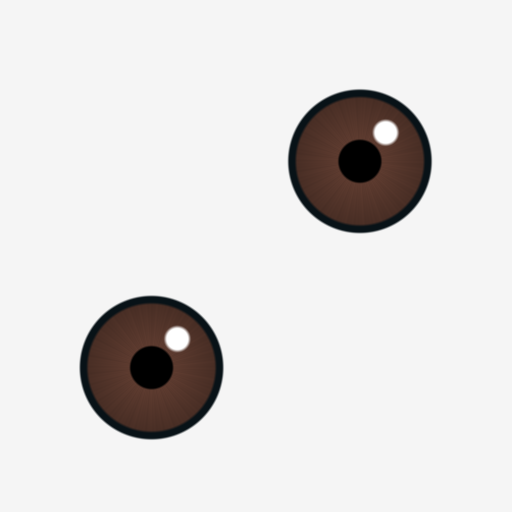
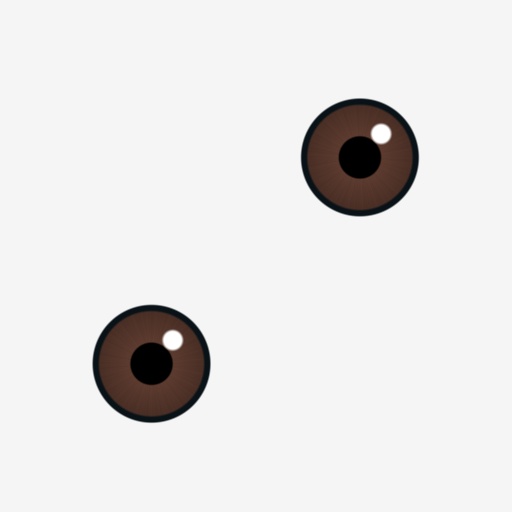
Round 83: the men's chin its own length, a soft-edged turn under the chin, colour and eyes by measure
The owner, 2026-11-17: "o maxilar do homem e da mulher ainda está com falhas". The steps of the
head were saved one by one and redrawn outside Blender (the same numbers to 0.0 mm). Two causes:

- The men's chin: a round U before the step that shortens the lower face and a block with a flat
  base and two corners after it. Measured on the portraits against the series (a finder and a
  sceptic), the young man's chin had 50 to 55 % of the height of the series'. The young man's lower
  face keeps its own length (LOWER_FACE 0.83 to 1.0), the old man's almost (0.87 to 0.95), the old
  woman's a little more of it (0.93 to 0.955).
- The wavy line along the base of every jaw: the normals turned forward under the chin
  (parle_normals) stood up to 90 degrees off the surface, a lit wedge with an edge that followed
  each point's own normal. The turn is weaker (0.85 to 0.6), comes in over a wider span of the
  normal and is averaged over 30 rounds of neighbours. Not proved in the player.

By the same measured panel (series against cast, each difference checked by a sceptic): the iris
smaller (0.14 to 0.115: the cast showed a quarter of the series' white) with the pupil the size it
had; a young person's eyebrow darker than the hair (0.6 to 0.4); the young man's eyebrow thinner at
its head, its tail kept; the old women's blush and the tip of the women's nose less red; the young
man's blush lower and further out; the women's nose a twelfth (old: a twentieth) narrower. Tested.

diff --git a/tools/parle_style.py b/tools/parle_style.py
@@ -22,7 +22,10 @@ STYLE = {
     # The eyes (2026-11-16, round 49): grown 1.25 on the men and 1.12 on the women for the series, the skin round them kept under a
     # third of its room (0.36 on the men, 0.22 on the women: the bags under the eyes the judges asked away, the women past the 1.3
     # the owner's test holds, `tests/test_parle_eyes.py`). The women's eyes back to 1.3 of the kit's, the men's to 1.25.
-    "male": {"forward": 1.25, "nose": 1.6, "tip": 1.5, "brow": 1.4, "eye": 1.25 / 1.1, "skin": 1.55},
+    # Round 83 (measured against the series on the portraits of round 81, a finder and a sceptic): the young man's eyebrow was 80 to 95 %
+    # thicker than the series' at its head (0.105 of the face's width against 0.055) and its tail as the series' (0.036): the head
+    # thinner, and `brow_outer` over one so the tail keeps the thickness it had (1.4 before, at every point).
+    "male": {"forward": 1.25, "nose": 1.6, "tip": 1.5, "brow": 0.85, "brow_outer": 1.6, "eye": 1.25 / 1.1, "skin": 1.55},
     # Round 41: the old man's eyebrow a flat white patch over the glasses (2.8) and his eye white all about the iris (`lid` in SCULPT lower).
     # Round 66 (owner, 2026-11-17: "melhora a sobrancelha"): at 2.5 his eyebrow stood 3 cm tall by the nose, a grey block over the
     # glasses, as thick at the temple as by the nose: thinner, and to `brow_outer` of that at its outer end (the series' old man's
@@ -37,10 +40,13 @@ STYLE = {
     # Round 63, both judges asked the young woman's eyebrows thicker; at 1.55 (round 64) both "30 a 40 % mais finas": back to 1.35.
     # Round 76 (both judges, seven of eight: the eyebrow "em vírgula, mais grossa na cabeça e afinando até a ponta"): a woman's
     # thins to 0.6 of its head at the temple (`parle_face.BROW_OUTER` 0.75 until then).
-    "female": {"forward": 0.8, "nose": 1.15, "tip": 1.1, "brow": 1.35, "brow_outer": 0.6, "eye": 1.0, "skin": 1.55},
+    # Round 83 (measured): the young women's nose 20 to 36 % wider than the series' young women's, the old women's 8 to 11 % wider
+    # than its widest woman's; the faces the owner approved have it wider than the series (`parle_beauty.LIKED`), so less than
+    # half of the way: a twelfth and a twentieth narrower (with the balls in SCULPT).
+    "female": {"forward": 0.8, "nose": 1.06, "tip": 1.1, "brow": 1.35, "brow_outer": 0.6, "eye": 1.0, "skin": 1.55},
     # Rounds 54 and 58: the old woman's nose "20 % menor, ... hoje parece nariz de homem" (both judges).
     # Round 66: at 2.4 the old woman's eyebrow was a flat grey slab over the eye: thinner, and thinning to the temple.
-    "female-old": {"forward": 0.85, "nose": 1.3, "tip": 1.2, "brow": 1.7, "brow_outer": 0.6, "eye": 1.0, "skin": 1.55},
+    "female-old": {"forward": 0.85, "nose": 1.24, "tip": 1.2, "brow": 1.7, "brow_outer": 0.6, "eye": 1.0, "skin": 1.55},
 }
 # Round 3 of the loop judged by sight against the series (2026-11-15, 3.1 in 10) asked first for eyes about a third bigger and round,
 # with white showing and a highlight; then warmer, more saturated skin; a bulb at the tip of the nose; eyebrows half as thick again.
@@ -164,8 +170,8 @@ def warmer(rgb, amount):
 SCULPT = {
     "male": {"nose_ball": (0.41, 0.42, 0.33), "nose_share": 0.95, "cheek": 0.66, "cheek_share": 0.76, "chin": 0.5, "lid": 0.1, "ridge": 0.0},
     "male-old": {"nose_ball": (0.44, 0.46, 0.38), "nose_share": 0.95, "cheek": 0.735, "cheek_share": 0.92, "chin": 0.45, "lid": -0.32, "ridge": 0.0},
-    "female": {"nose_ball": (0.22, 0.22, 0.19), "nose_share": 0.9, "cheek": 0.62, "cheek_wide": 0.86, "cheek_share": 0.82, "chin": 0.36, "lid": -0.02, "ridge": 0.0},
-    "female-old": {"nose_ball": (0.29, 0.29, 0.25), "nose_share": 0.9, "cheek": 0.7, "cheek_wide": 0.86, "cheek_share": 0.92, "chin": 0.38, "lid": -0.08, "ridge": 0.0},
+    "female": {"nose_ball": (0.2, 0.22, 0.19), "nose_share": 0.9, "cheek": 0.62, "cheek_wide": 0.86, "cheek_share": 0.82, "chin": 0.36, "lid": -0.02, "ridge": 0.0},
+    "female-old": {"nose_ball": (0.275, 0.29, 0.25), "nose_share": 0.9, "cheek": 0.7, "cheek_wide": 0.86, "cheek_share": 0.92, "chin": 0.38, "lid": -0.08, "ridge": 0.0},
 }
 # Where the forms stand, in distances between the eyes from the middle of the eye globe of that side (cheeks) or from the nose tip
 # (the nose ball behind it, the chin under it): across, back (+y), up.
@@ -233,7 +239,14 @@ NOSE_ZONE = 0.55
 # of round 77 (`parle_beauty`, the owner, 2026-11-17: "deve melhorar o maxilar"), the women's faces were already wider than tall
 # (width over height 1.01 to 1.09; the series' women 0.91, the faces the owner approved 0.90) and the men's as wide as his (0.83
 # to 0.89 against 0.83; the series' men 0.77). Back for the men; the women's face is left longer under the nose.
-LOWER_FACE = {"male": 0.83, "male-old": 0.87, "female": 0.93, "female-old": 0.93}
+# Round 83 (owner, 2026-11-17: "o maxilar do homem e da mulher ainda está com falhas"): the steps of the head saved one by one and
+# drawn outside Blender, the young man's chin was a round U before this step and a block with a flat base and two corners after
+# it; measured on the portraits against the series (a finder and a sceptic), his chin had 50 to 55 % of the height of the
+# series' young men's (0.19 of the face's width against 0.33 to 0.35), the old men's a little short (0.035 of the width), the
+# old women's 0.02 to 0.04 distances between the eyes, the young women's as the series'. The series' faces are long under the
+# nose, not short: the judge of round 31 read it by sight and the ruler says the opposite. The young man's face is left its own
+# length, the old's almost.
+LOWER_FACE = {"male": 1.0, "male-old": 0.95, "female": 0.93, "female-old": 0.955}
 # A trial of another share for the lower face, for every kind, without touching this file: a QA door, not a mode of the cast.
 LOWER_FACE_TRIAL = "PARLE_LOWER_FACE"
 LOWER_CHIN = -1.3

diff --git a/tools/parle_paint.py b/tools/parle_paint.py
@@ -20,7 +20,9 @@ BROW_EDGE = (0.42, 0.62)
 # Round 57, both judges: the young woman's eyebrows "castanha como o cabelo (hoje quase preta)": a young person's eyebrow is its
 # own colour (the cast dyes it in the hair's) made darker, no longer one near-black for all.
 # Round 63: "castanho-médio como o cabelo (hoje quase preta)" (judge B): 0.6.
-BROW_YOUNG_DARKEN = 0.6
+# Round 83 (measured on the portraits against the series): the series' eyebrow is always darker than the hair, 5 to 15 L* under dark
+# hair and 20 to 30 under mid brown; the cast's was as light as the hair or lighter (10 to 19 L* short): 0.4.
+BROW_YOUNG_DARKEN = 0.4
 # Rounds 49 to 52: both judges asked the old's eyebrows "cinza médio em vez de branco".
 # Round 54: "sem o tom azulado, 20 % mais escura" (judge B): a warm mid grey. Round 55: still "cinza-claro, some na pele": darker.
 BROW_OLD_GREY = (0.46, 0.43, 0.4)
@@ -40,7 +42,10 @@ BLUSH = (0.86, 0.38, 0.28)
 # Round 48: both judges asked the old woman's and the old man's nose tip and cheeks a quarter redder, as the series' old man.
 # Round 52: both judges asked the nose tip and the cheeks of all four "25 a 30 % mais vermelhos": a seventh more.
 # Round 56: the old's nose tip and cheeks "+25 a 30 % de saturação, como o idoso da série" (judge B).
-BLUSH_SHARE = {"female": 0.4, "female-old": 0.74, "male": 0.52, "male-old": 0.82}
+# Round 83 (measured, CIELAB a* of the cheek and of the nose's tip over the skin's): the old women's cheek up to 1.5 times the
+# series' young woman's and the tip of their nose 3 to 6 times the series', where its women have none; the young women's cheek as
+# the series'. The old women's blush and nose down (NOSE_SHARE_BY_KIND), the young women's nose a third down.
+BLUSH_SHARE = {"female": 0.4, "female-old": 0.5, "male": 0.52, "male-old": 0.82}
 # Round 56: the young woman's blush reached the mouth and the chin ("tirar as manchas rosadas em volta da boca", judge B): the spot
 # a little higher on the cheek.
 # Round 57: the young woman's blush "na lateral, até a borda do rosto" (judge B), "40 % mais fraco, sem as duas manchas" (judge A):
@@ -48,6 +53,9 @@ BLUSH_SHARE = {"female": 0.4, "female-old": 0.74, "male": 0.52, "male-old": 0.82
 # Round 61, both judges: at -0.56 the young woman's blush reached the chin and the low cheek, "o rosa que borra em volta da boca";
 # the series' sits "no alto das maçãs", just under the eye.
 CHEEK_SPOT = (0.1, -0.25, -0.42)
+# Round 83 (measured): the young men's spot sat at 0.38 to 0.58 of the way from the pupils to the base of the nose, the series' young
+# men's at 0.75 and its grown man's at 0.56 to 0.60, and nearer the nose than theirs: lower and further out. The others keep theirs.
+CHEEK_SPOT_BY_KIND = {"male": (0.18, -0.25, -0.55)}
 CHEEK_WIDE = 0.34
 NOSE_SPOT_WIDE = 0.22
 # Round 54: both judges, the tip of the nose "15 a 25 % mais vermelha" on all four.
@@ -60,7 +68,7 @@ CHEEK_WIDE_BY_KIND = {"male-old": 0.64, "female-old": 0.5, "female": 0.3}
 # Round 52: with the cheek's part weaker one judge read the old paler; round 53, both judges: "trocar os dois discos vermelhos por um
 # avermelhado difuso 40 % mais fraco" on the old man, "blush 30 % mais fraco e espalhado" on the old woman.
 CHEEK_PART_BY_KIND = {"male-old": 0.6, "female-old": 0.7}
-NOSE_SHARE_BY_KIND = {"male-old": 1.3, "female-old": 1.25}
+NOSE_SHARE_BY_KIND = {"male-old": 1.3, "female-old": 0.5, "female": 0.65}
 # The lips: the series draws no lip, the mouth is a cut with curled corners (round 21: "a série não desenha lábio"). The skin about
 # the mouth goes this share of the way to the face's own skin colour, so the painted lip of the kit's photograph goes.
 MOUTH_SPOT = (0.0, -0.05, -0.62)
@@ -273,9 +281,10 @@ def blush_share(points, tip, eyes, kind):
     middle_x = (centres[0][0] + centres[1][0]) / 2
     share = np.zeros(len(points))
     wide, part = CHEEK_WIDE_BY_KIND.get(kind, CHEEK_WIDE), CHEEK_PART_BY_KIND.get(kind, 1.0)
+    spot = CHEEK_SPOT_BY_KIND.get(kind, CHEEK_SPOT)
     for centre in centres:
         side = np.sign(centre[0] - middle_x)
-        at = centre + np.array([side * CHEEK_SPOT[0], CHEEK_SPOT[1], CHEEK_SPOT[2]]) * unit
+        at = centre + np.array([side * spot[0], spot[1], spot[2]]) * unit
         far = np.linalg.norm(points - at, axis=1) / (wide * unit)
         share = np.maximum(share, part * np.exp(-far * far))
     far = np.linalg.norm(points - np.asarray(tip, float), axis=1) / (NOSE_SPOT_WIDE * unit)

diff --git a/tests/test_parle_style.py b/tests/test_parle_style.py
@@ -19,7 +19,10 @@ except ValueError:
     pass
 men, old = parle_style.STYLE["male"], parle_style.STYLE["male-old"]
 assert men["nose"] > parle_style.STYLE["female"]["nose"] and old["nose"] > men["nose"], "the series' men have the bigger nose, the old the biggest"
-assert old["brow"] > men["brow"] > parle_style.STYLE["female"]["brow"], "the eyebrows of the kinds are not in the series' order"
+assert old["brow"] > men["brow"], "the old man's eyebrows are no bushier than the young man's"
+# Round 83 (measured): the young man's eyebrow was 80 to 95 % thicker than the series' at its head, its tail as the series': the
+# head under the kit's own thickness, the tail no thinner than it was at 1.4 all along.
+assert men["brow"] < 1.0 and 1.2 < men["brow"] * men["brow_outer"] < 1.5, f"the young man's eyebrow is a block again, or its tail thinned: {men}"
 # Round 66 (owner, 2026-11-17: "melhora a sobrancelha"): the old's eyebrows were a block (2.5 times the kit's, as thick at the
 # temple as by the nose): under twice the kit's, and thinning to the temple.
 for kind in ("male-old", "female-old"):
@@ -58,8 +61,8 @@ neck = tip + np.array([0.0, 0.06, -0.12])
 weight = parle_style.simple_weight(np.array([rim, lips, neck]), tip, eyes)
 assert weight[0] < 0.01 and weight[1] < 0.01 and weight[2] > 0.9, f"the smoothing takes the eye or the lips, or leaves the neck: {weight}"
 # The lower face shorter (round 31): the chin comes up most, the mouth part of the way, and nothing above the nose tip nor far down
-# the neck moves.
-short = parle_style.lower_face_field(tip, eyes, "male")
+# the neck moves. On a young woman: the young man's is no longer shortened (round 83).
+short = parle_style.lower_face_field(tip, eyes, "female")
 probe = np.array([[0.0, -0.09, tip[2] - 0.083], [0.0, -0.09, tip[2] - 0.04], [0.0, -0.1, tip[2] + 0.01], [0.0, -0.05, 1.4]])
 up = (short(probe) - probe)[:, 2]
 assert up[0] > up[1] > 0.002 and abs(up[2]) < 1e-9 and abs(up[3]) < 1e-9, f"the lower face is not shortened as it should be: {up}"
@@ -216,7 +219,11 @@ assert eased[10, 2] > 0.0005 and np.allclose(eased[[0, 20]], fold[[0, 20]]), f"a
 # cheekbones. Their cheeks are narrower across than the men's, and their face is shortened less under the nose.
 for old_or_young in ("", "-old"):
     assert parle_style.SCULPT["female" + old_or_young]["cheek_wide"] < 0.9 and "cheek_wide" not in parle_style.SCULPT["male" + old_or_young], "the women's cheeks are as wide as the men's"
-    assert parle_style.LOWER_FACE["female" + old_or_young] > parle_style.LOWER_FACE["male" + old_or_young] + 0.05, "the women's face is as short under the nose as the men's"
+# Round 83: shortened under the nose, the young man's chin was a block with a flat base, half as tall as the series' young men's
+# (measured); no kind's lower face is shortened by more than a twelfth, and his not at all.
+assert parle_style.LOWER_FACE["male"] >= 0.98 and min(parle_style.LOWER_FACE.values()) >= 0.92, f"the face is short under the nose again: {parle_style.LOWER_FACE}"
+flat = parle_style.lower_face_field(tip, eyes, "male")(np.array([[0.0, -0.06, 1.52], [0.02, -0.05, 1.5]]))
+assert np.allclose(flat, [[0.0, -0.06, 1.52], [0.02, -0.05, 1.5]]), "the young man's chin is lifted"
 
 # The owner, 2026-11-17: "o maxilar do homem e da mulher ainda está com falhas". (1) A ball's rim: a flat sheet through a ball is
 # pushed out inside it; with the ease, the sheet leaves the ball with no crease (the push next to the rim is a small share of

diff --git a/tools/eye_texture.py b/tools/eye_texture.py
@@ -35,7 +35,11 @@ CENTRES = ((0.703, 0.273), (0.296, 0.676))
 # Round 66 (two judges, eight of the cast): with the lids back at the owner's opening (round 60), the iris filled the eye from
 # corner to corner, about 95 % of its width where the series' fills 55 to 60, "olho só íris, sem branco"; one judge asked it 40 %
 # smaller, the other 20: 0.14.
-IRIS_RADIUS = 0.14
+# Round 83 (measured on the portraits of round 81 against the series, a finder and a sceptic): the cast showed a quarter of the
+# white the series' eye shows (0.11 of the opening against 0.46) and its iris was 1.4 times the series' (0.39 of the distance
+# between the pupils against 0.28). 0.10 would be the series' size, as tall as the opening of the lids: a little over it, so
+# the lids still lie across the top and the foot of the iris and no white shows about it (the stare of rounds 21 and 25).
+IRIS_RADIUS = 0.115
 # The cast has no eye bones and the globe rests looking slightly up: without this the pupil touches the upper lid.
 # Measured on a woman of the cast (2026-11-12), the lids opened from 5 to 8 degrees above the middle of the iris to 21 to 27 below
 # it: at 0.2 the upper lid still lay across the top of the pupil. With the lids as they are now (`parle_face.FAIR_LOOK`), at 0.3
@@ -45,7 +49,9 @@ GAZE_DOWN = 0.3
 # Watson & Yellott 2012, "A unified formula for light-adapted pupil size", Journal of Vision 12(10):12, DOI 10.1167/12.10.12). 0.36 sits
 # just above that range and is chosen by eye in the player's bust shots (2026-11-09): 0.48 read as a dilated eye, 0.42 still did on a dark iris.
 # Round 66: "pupila 30 % menor" (a judge by sight against the series): 0.30, inside that range.
-PUPIL_SHARE = 0.30
+# Round 83: with the iris smaller the pupil keeps the size it had on the ball (0.14 x 0.30); the series' is 0.45 of its iris, over
+# the ceiling the test holds for the player's bust shots (0.38).
+PUPIL_SHARE = 0.36
 LIMBUS_SHARE = 0.90
 # BGR, 0-1. Measured on the player's iris for the middle one, then 20% lighter with a darker limbus and a whiter sclera: next to her and Rafa the eye read as dull (owner, 2026-11-08).
 # Honey was then too bright in the game (value 0.82: an orange disc with a dot, an owl's eye at game size, 2026-11-09). The owner chose

diff --git a/tests/test_parle_paint.py b/tests/test_parle_paint.py
@@ -61,12 +61,20 @@ assert abs(smoothed.mean() - skin.mean()) < 0.01, "the blur changes the skin's c
 
 eyes = [(np.array([0.032, -0.06, 1.66]), 0.012), (np.array([-0.032, -0.06, 1.66]), 0.012)]
 tip = np.array([0.0, -0.1, 1.62])
-cheek = eyes[0][0] + np.array(parle_paint.CHEEK_SPOT) * 0.064
+cheek = eyes[0][0] + np.array(parle_paint.CHEEK_SPOT_BY_KIND["male"]) * 0.064
 forehead, back = np.array([0.0, -0.08, 1.75]), np.array([0.0, 0.08, 1.66])
 share = parle_paint.blush_share(np.array([cheek, tip, forehead, back]), tip, eyes, "male")
 assert share[0] > 0.8 * parle_paint.BLUSH_SHARE["male"] and share[1] > 0.6 * parle_paint.BLUSH_SHARE["male"], "no blush on the cheek or the nose"
 assert share[2] < 0.02 and share[3] < 0.001, "the forehead or the back of the head blush"
 assert parle_paint.BLUSH_SHARE["male-old"] > parle_paint.BLUSH_SHARE["male"], "the old blush less than the young"
+# Round 83 (measured against the series): the women's nose tip is no redder than their cheek, the old women's blush under the old man's,
+# the young man's spot lower and further out than the others', and a young person's eyebrow darker than its hair.
+for kind in ("female", "female-old"):
+    woman = parle_paint.blush_share(np.array([eyes[0][0] + np.array(parle_paint.CHEEK_SPOT) * 0.064, tip]), tip, eyes, kind)
+    assert woman[1] < woman[0], f"the tip of a woman's nose is redder than her cheek: {kind} {woman}"
+assert parle_paint.BLUSH_SHARE["female-old"] < 0.6 < parle_paint.BLUSH_SHARE["male-old"], "the old women blush as the old man"
+assert parle_paint.CHEEK_SPOT_BY_KIND["male"][0] > parle_paint.CHEEK_SPOT[0] and parle_paint.CHEEK_SPOT_BY_KIND["male"][2] < parle_paint.CHEEK_SPOT[2], "the young man's blush is not lower and further out"
+assert parle_paint.BROW_YOUNG_DARKEN <= 0.45, "a young person's eyebrow is as light as the hair"
 red = parle_paint.blushed(np.full((1, 1, 3), 0.6, np.float32), np.ones((1, 1)))
 assert red[0, 0, 0] > red[0, 0, 2], "the blush is not warm"
 # The blur of the skin keeps to the covered map (round 34): the empty map next to an island does not darken its edge.

diff --git a/tools/parle_normals.py b/tools/parle_normals.py
@@ -15,10 +15,16 @@ FRONT_OF_NECK_M = 0.02
 # The zone fades over 2 cm instead of stopping at a box wall, and each point's turn is averaged with its neighbours along the mesh edges: a box wall and a
 # per-point weight let a neck crease alternate turned and plain points, and the player showed dark teeth at the corner of the jaw (2026-11-11).
 FADE_M = 0.02
-SMOOTH_ROUNDS = 8
-DOWN_FROM = -0.15
-DOWN_FULL = -0.55
-TURN = 0.85
+# Round 83 of the drawn heads (owner, 2026-11-17: "o maxilar do homem e da mulher ainda está com falhas"): drawn with the file's
+# normals against the surface's own, the wavy line along the base of the jaw was this turn, not the form: at 0.85, from -0.15
+# to -0.55 and 8 rounds, the normals under the jaw stood up to 90 degrees off the surface (the 95th percentile 59), a lit wedge
+# under the chin whose edge followed each point's own normal and ended at a line across the throat. The turn is weaker, comes
+# in over a wider span of the normal and is averaged over more neighbours: the under side keeps a soft shade of its own, as
+# the series draws it, and the drawn heads paint that shade warm (`parle_paint.JAW_SHADE`). Not proved in the player.
+SMOOTH_ROUNDS = 30
+DOWN_FROM = 0.0
+DOWN_FULL = -0.8
+TURN = 0.6
 AHEAD = np.array((0.0, -1.0, 0.05))
 
 

diff --git a/tests/test_parle_eye_map.py b/tests/test_parle_eye_map.py
@@ -78,3 +78,6 @@ print("ok")
 # Round 66: at the owner's opening of the lids the iris filled the eye from corner to corner (95 % of its width; the series' 55 to
 # 60 %): it stays under 0.16 of the map.
 assert eye.IRIS_RADIUS < 0.16, f"the iris fills the eye: {eye.IRIS_RADIUS}"
+# Round 83 (measured): at 0.14 the cast showed a quarter of the white the series shows; under 0.10 the iris is shorter than the
+# opening of the lids and white shows all about it (the stare the owner faults).
+assert 0.10 < eye.IRIS_RADIUS <= 0.12, f"the iris hides the white, or leaves white all about it: {eye.IRIS_RADIUS}"
